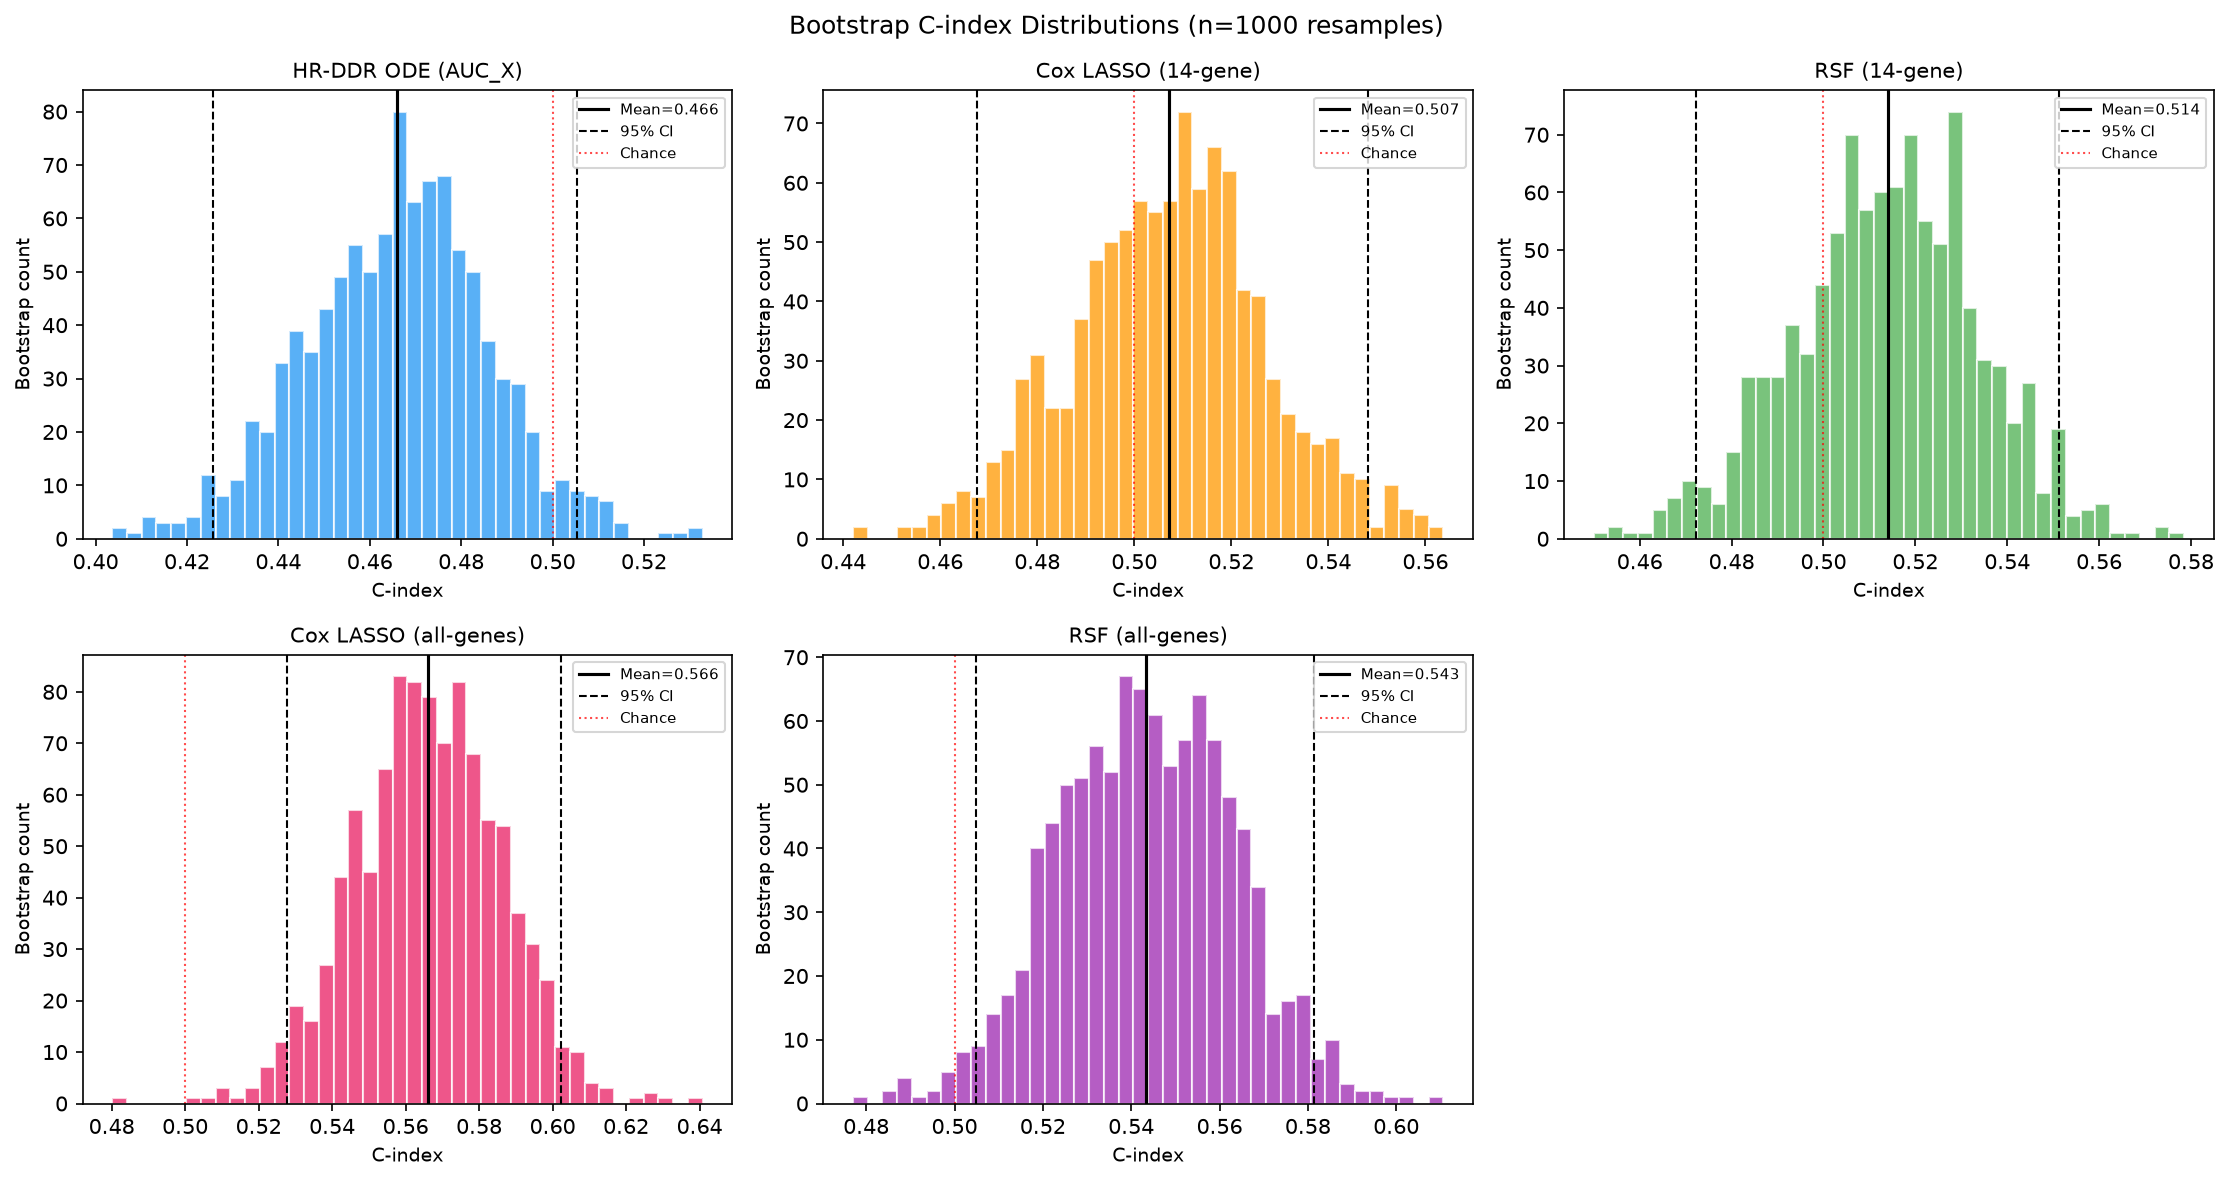
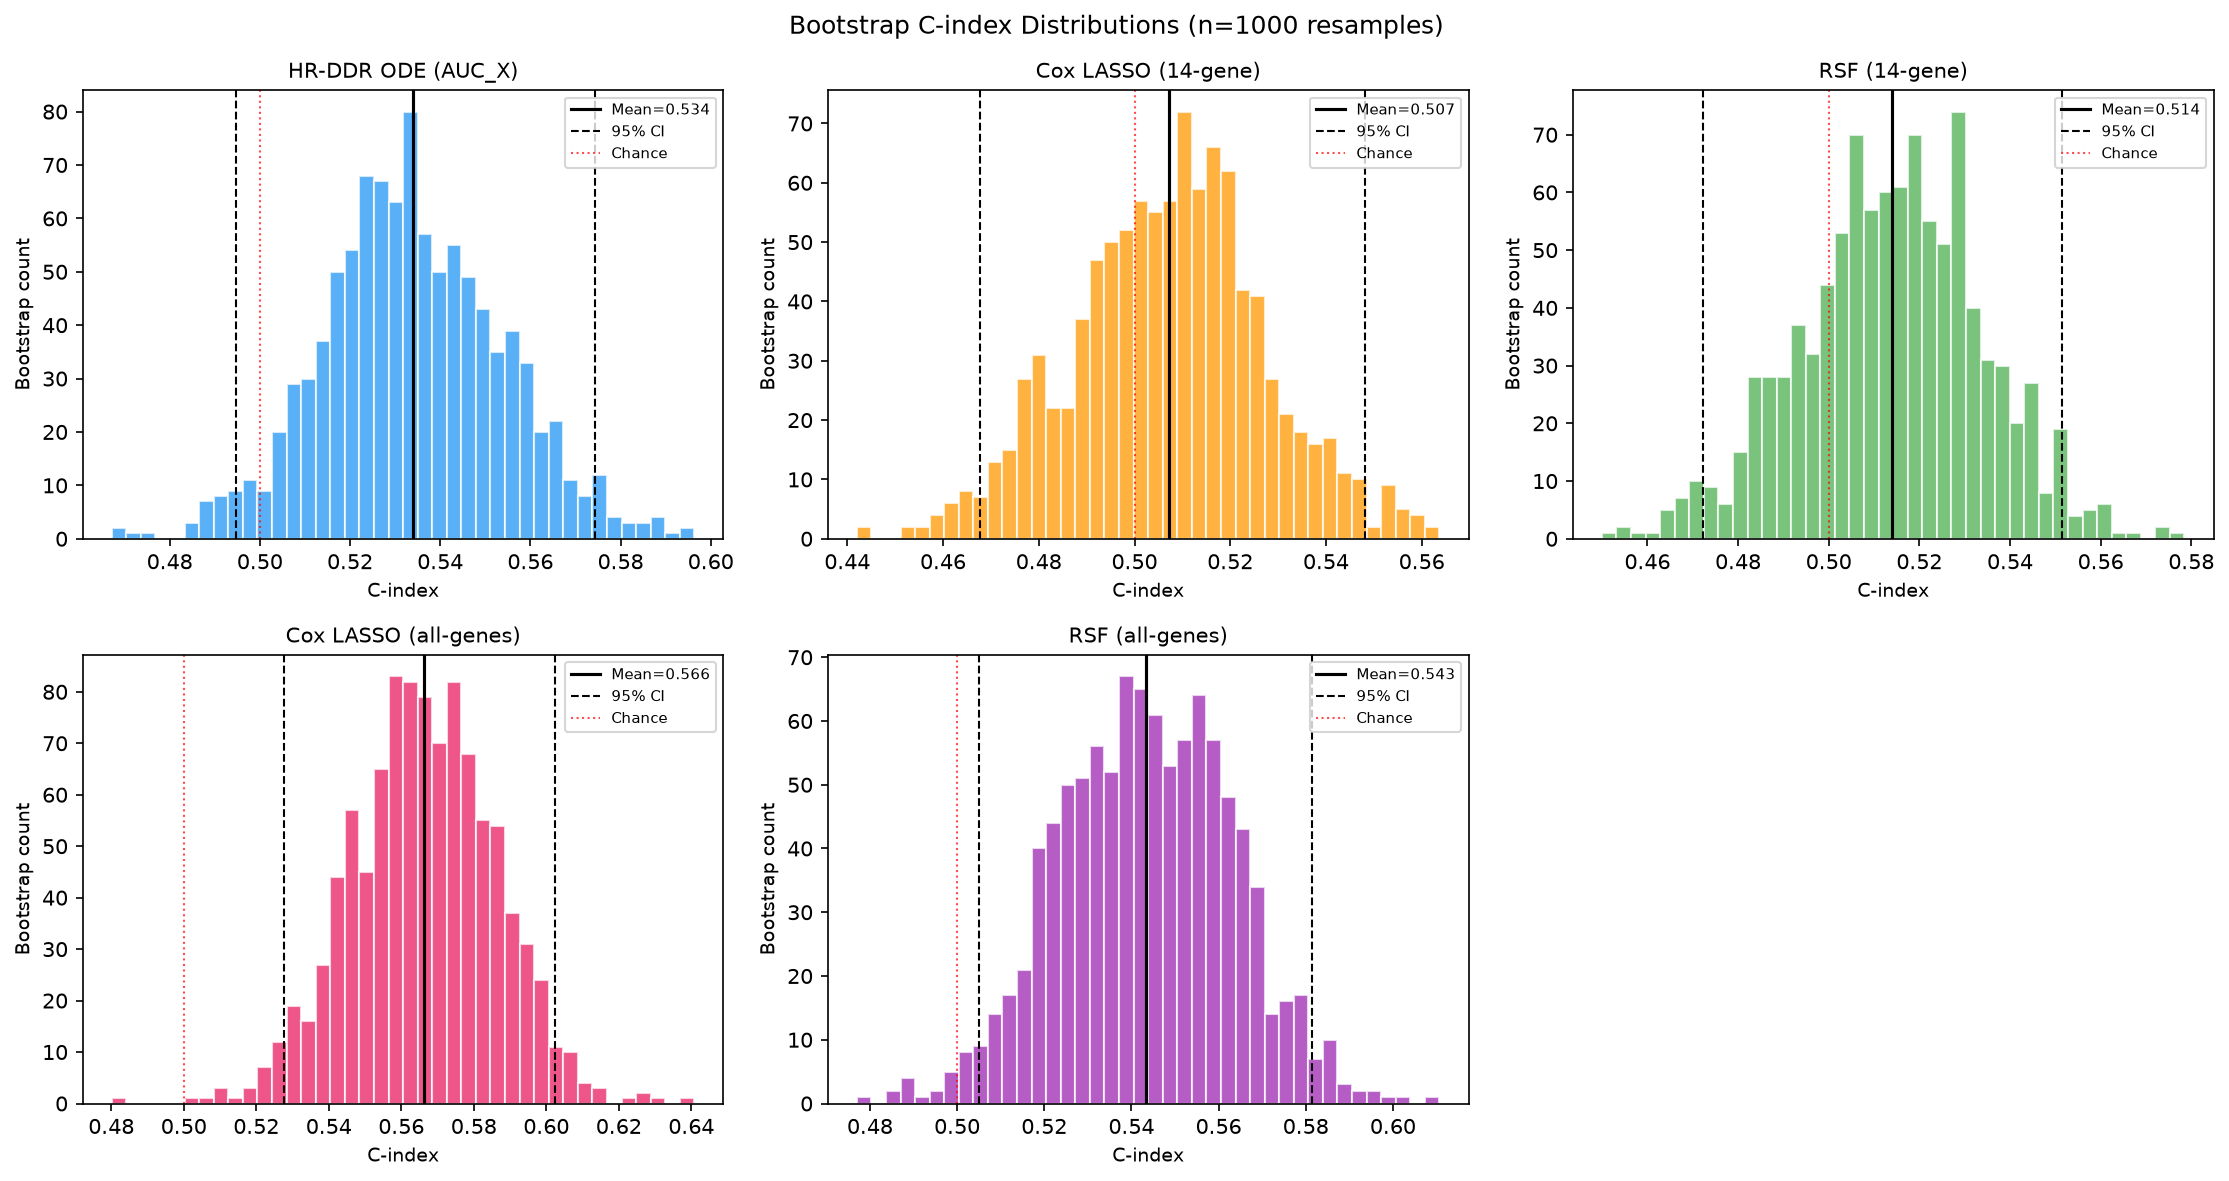
feat(ode_validation): add steady-state consistency check across full cohort
- Add validate_steady_state() that evaluates the ODE RHS at the
  analytical zero-damage steady state [D, A, C, R, X] = [0, 0, 0,
  BRCA_cap, 0] for every patient in params_df
- Check runs across the full cohort (not just two representative
  patients) so bugs that cancel at median parameter values are still
  caught at cohort extremes
- Raise ValueError naming the patient, equation, and residual magnitude
  if any derivative exceeds 1e-10
- Call validate_steady_state() as Check 1 in main(), before any
  simulation, so a broken ODE fails loudly rather than producing
  silently wrong trajectories for all 420 patients
- Add module docstring enumerating all three validation checks
- Add matplotlib.use("Agg") consistent with other pipeline scripts

diff --git a/src/ode_validation.py b/src/ode_validation.py
@@ -1,5 +1,30 @@
+"""
+ode_validation.py — Validation suite for the HR-DDR ODE model.
+
+Runs three checks before the full cohort simulation:
+
+1. Steady-state consistency: confirms that the analytical zero-damage
+   steady state [D, A, C, R, X] = [0, 0, 0, BRCA_cap, 0] evaluates to
+   zero derivatives for all five equations across a sweep of patient
+   parameter values. A non-zero residual would indicate an error in the
+   ODE right-hand side or the initial condition derivation.
+
+2. Directional sensitivity: simulates one low-BRCA and one high-BRCA
+   representative patient and confirms that lower repair capacity produces
+   higher apoptotic commitment (AUC_X), as expected biologically.
+
+3. Trajectory visualisation: plots all five state variables for both
+   representative patients and saves to results/figures/.
+
+Outputs
+-------
+- results/figures/ode_validation_trajectories.png
+"""
+
 import pandas as pd
 import numpy as np
+import matplotlib
+matplotlib.use("Agg")
 import matplotlib.pyplot as plt
 import logging
 from pathlib import Path
@@ -18,6 +43,100 @@ logging.basicConfig(
     format="%(asctime)s - %(levelname)s - %(message)s"
 )
 
+# Residual magnitude below which a derivative is considered zero.
+# Chosen to be well above float64 machine epsilon (~1e-16) but tight
+# enough to catch genuine equation errors.
+_SS_TOLERANCE = 1e-10
+
+
+# =================================================================
+# Steady-state validation
+# =================================================================
+
+def validate_steady_state(params_df: pd.DataFrame) -> None:
+    """
+    Confirm that the analytical zero-damage steady state satisfies dY/dt = 0.
+
+    At zero drug input (D0 = 0) the system has an analytical steady state:
+
+        D_ss = 0            (no damage without drug)
+        A_ss = 0            (no ATM/ATR activation without damage)
+        C_ss = 0            (no CHK signalling without ATM/ATR)
+        R_ss = BRCA_cap     (HR complex at basal level; derived from
+                             k_r * BRCA_cap = d_r * R with k_r = d_r)
+        X_ss = 0            (no apoptotic drive without checkpoint)
+
+    This function evaluates the ODE right-hand side at y_ss for every
+    patient in params_df and asserts that the maximum absolute derivative
+    is below _SS_TOLERANCE. Any non-zero residual indicates either an
+    error in the equations or a mismatch between the initial conditions
+    and the analytical derivation.
+
+    The check is intentionally run across the full parameter sweep
+    (not just two representative patients) because BRCA_cap and
+    BCL2_ratio vary widely across the cohort. A bug that cancels at
+    median parameter values might still surface at extremes.
+
+    Parameters
+    ----------
+    params_df : pd.DataFrame
+        Output of ode_model.compute_patient_params(); one row per patient.
+
+    Raises
+    ------
+    ValueError
+        If any patient's steady-state residual exceeds _SS_TOLERANCE,
+        with details of which patient and which equation failed.
+    """
+    # Build zero-drug global params: D0 = 0 eliminates the drug input
+    # φ(t) = D0 * exp(-t / tau_drug) entirely, giving a true no-damage
+    # baseline.
+    zero_drug_params = dict(ode_model.GLOBAL_PARAMS)
+    zero_drug_params["D0"] = 0.0
+
+    state_names = ["D", "A", "C", "R", "X"]
+    n_patients = len(params_df)
+    n_failed = 0
+
+    logger.info(
+        f"Steady-state check: evaluating {n_patients} patients "
+        f"(tolerance = {_SS_TOLERANCE:.0e})"
+    )
+
+    for _, row in params_df.iterrows():
+        patient = row.to_dict()
+        brca_cap = patient["BRCA_cap"]
+
+        # Analytical steady state: R = BRCA_cap, all others zero.
+        y_ss = [0.0, 0.0, 0.0, brca_cap, 0.0]
+
+        dydt = ode_model.hrddr_ode(
+            0.0, y_ss, patient, zero_drug_params
+        )
+
+        for i, (name, residual) in enumerate(zip(state_names, dydt)):
+            if abs(residual) > _SS_TOLERANCE:
+                n_failed += 1
+                raise ValueError(
+                    f"Steady-state residual too large for patient "
+                    f"{patient['PATIENT_ID']}: "
+                    f"d{name}/dt = {residual:.3e} "
+                    f"(tolerance = {_SS_TOLERANCE:.0e}, "
+                    f"BRCA_cap = {brca_cap:.4f}). "
+                    "Check the ODE right-hand side and initial condition "
+                    "derivation."
+                )
+
+    logger.info(
+        f"Steady-state check PASSED: all {n_patients} patients "
+        f"satisfy dY/dt = 0 at [D, A, C, R, X] = "
+        f"[0, 0, 0, BRCA_cap, 0] (max residual < {_SS_TOLERANCE:.0e})"
+    )
+
+
+# =================================================================
+# Main
+# =================================================================
 
 def main():
     """
@@ -41,7 +160,15 @@ def main():
         raise ValueError("Not enough patients for validation.")
 
     # -----------------------------------------------------------------
-    # Define representative patients
+    # Check 1: steady-state consistency
+    # -----------------------------------------------------------------
+
+    # Runs before any simulation so a bad ODE fails loudly here rather
+    # than producing silently wrong trajectories for all cohort patients.
+    validate_steady_state(params_df)
+
+    # -----------------------------------------------------------------
+    # Check 2: directional sensitivity — define representative patients
     # -----------------------------------------------------------------
 
     brca_mut = params_df[params_df["BRCA_MUTANT"] == 1]
@@ -84,7 +211,7 @@ def main():
     logger.info(f"AUC_X high-BRCA : {score_high['AUC_X']:.3f}")
 
     # -----------------------------------------------------------------
-    # Biological directionality check
+    # Biological directionality check (Check 2)
     # -----------------------------------------------------------------
 
     if score_low["AUC_X"] <= score_high["AUC_X"]:
@@ -94,7 +221,7 @@ def main():
         )
 
     # -----------------------------------------------------------------
-    # Plot trajectories
+    # Check 3: trajectory visualisation
     # -----------------------------------------------------------------
 
     fig, axes = plt.subplots(1, 5, figsize=(18, 3.8), sharex=True)